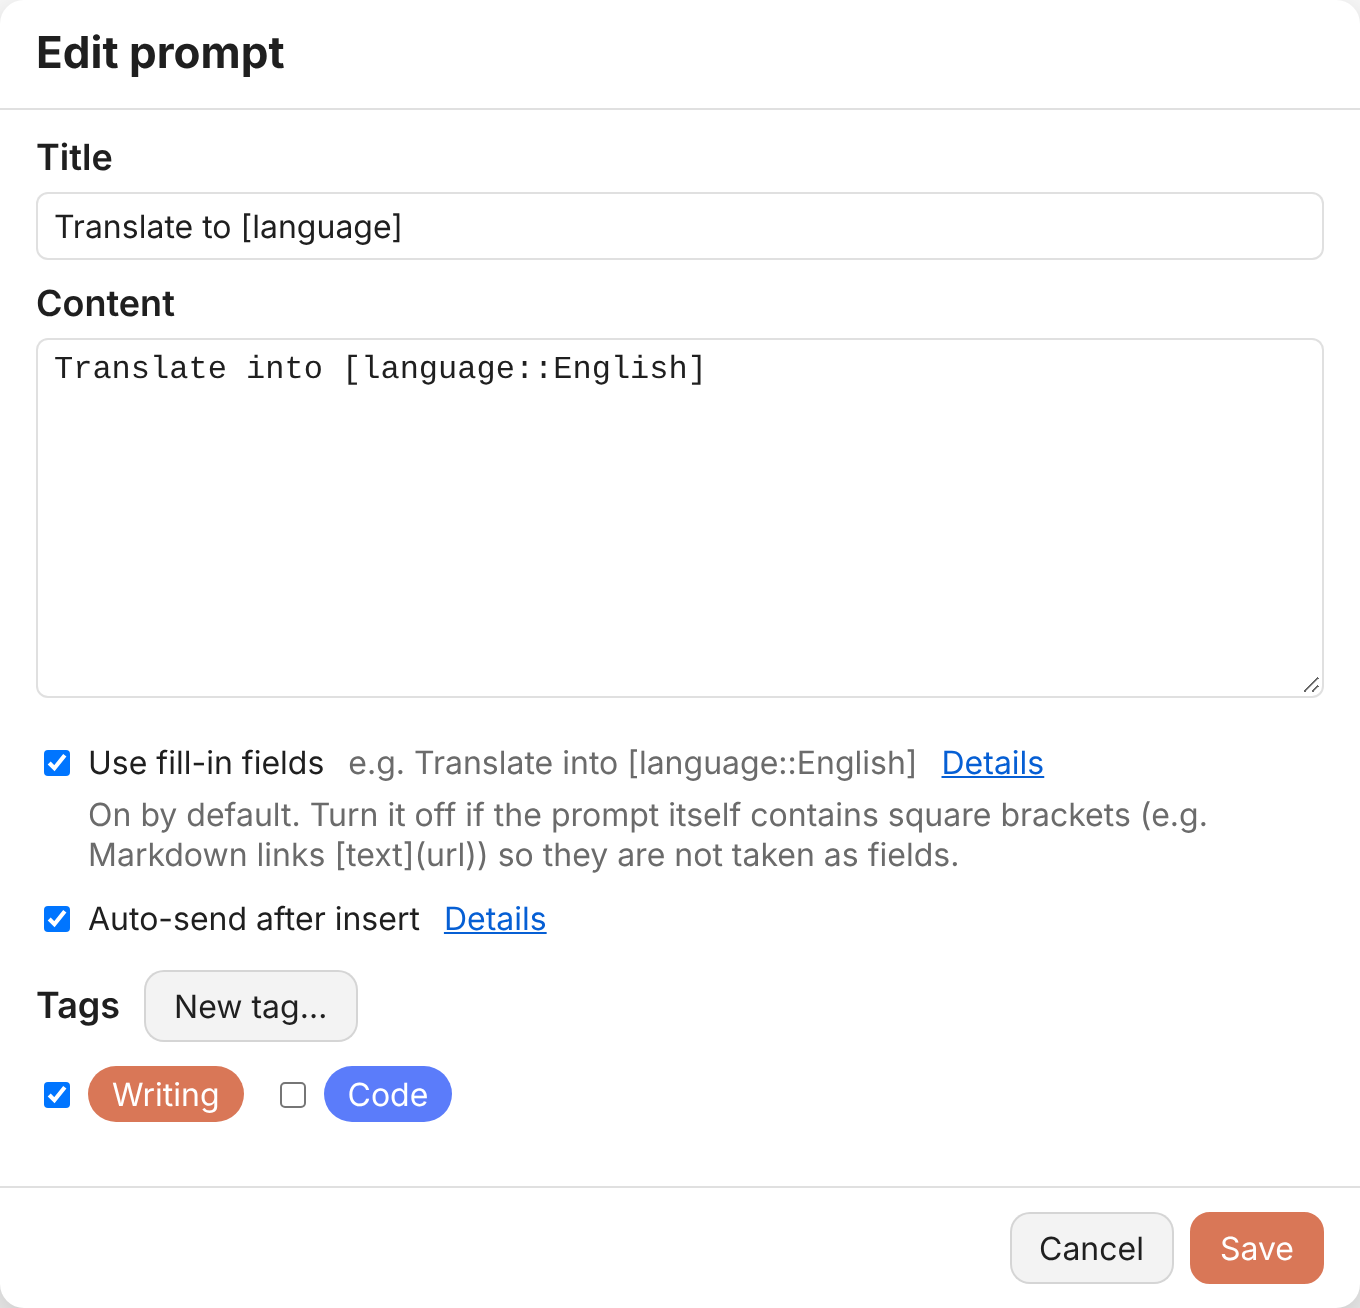
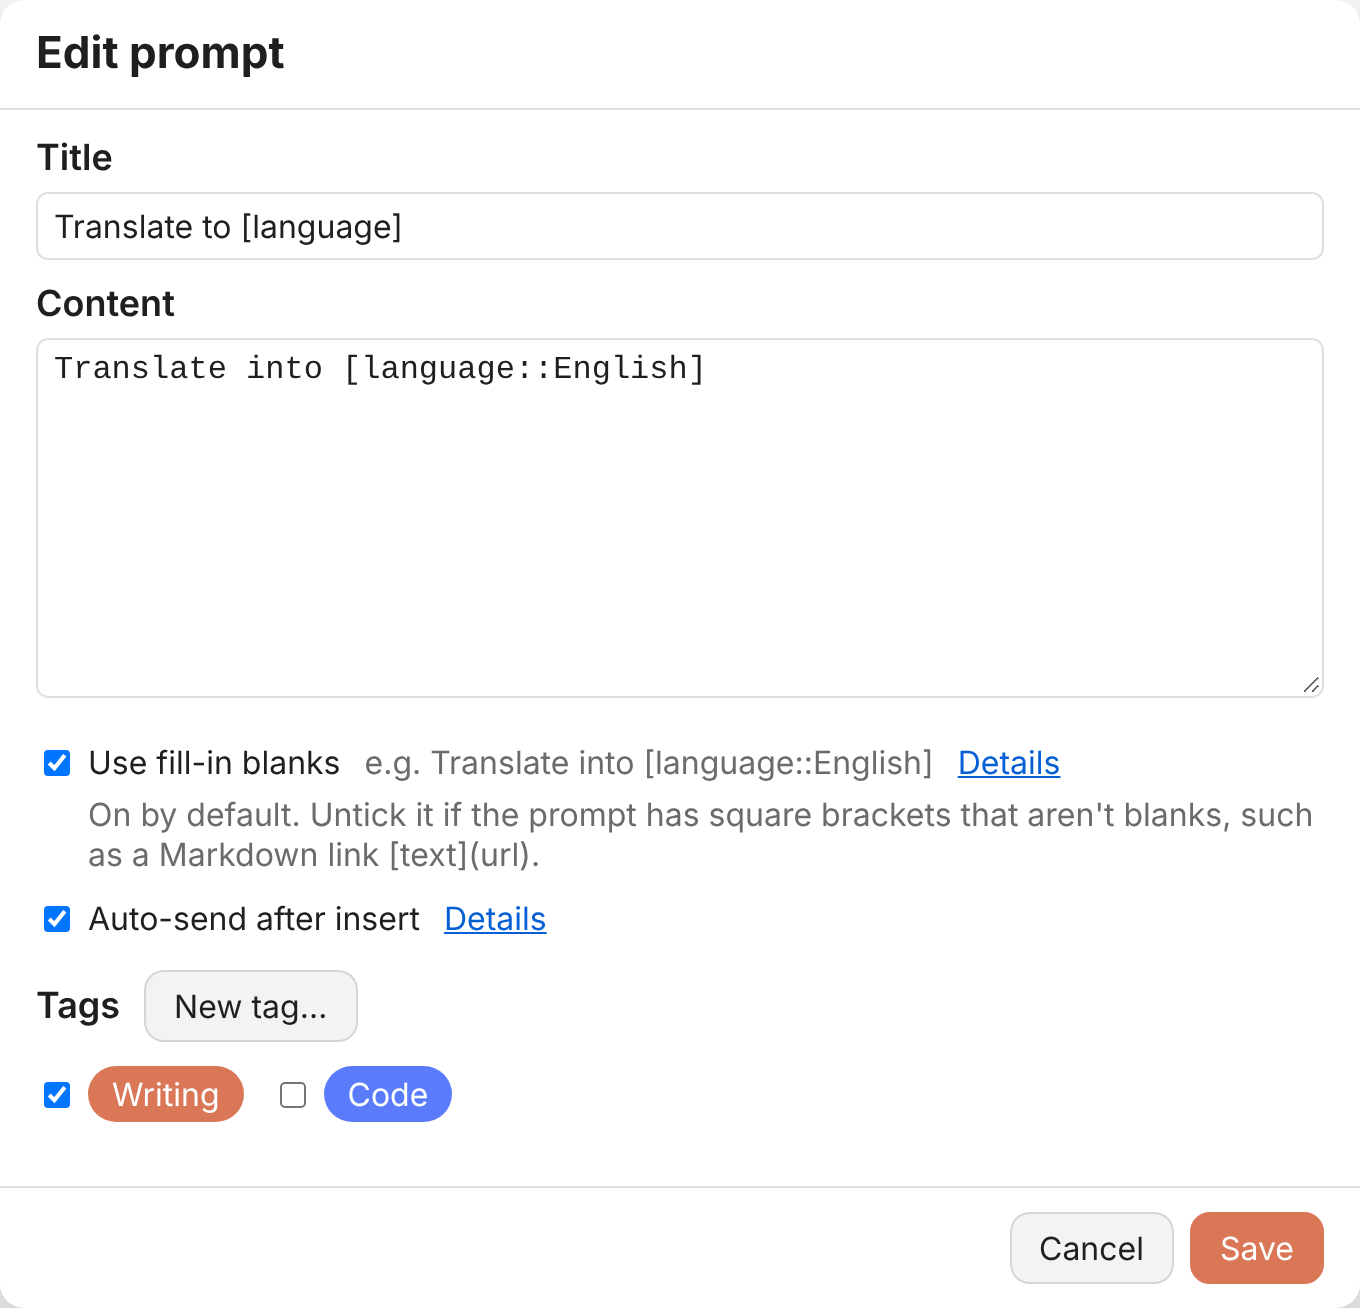
v1.2.2：介面中英文字串改成口語、與 README 用詞統一（英文 blank、中文空格）
Claude-Session: https://claude.ai/code/session_01EjuJ7uu9zEeY1qC176YcVq

Changed region(s): [[0.0618, 0.5505, 0.9574, 0.6728]]

diff --git a/prompt_popout.user.js b/prompt_popout.user.js
@@ -1,7 +1,7 @@
 // ==UserScript==
 // @name               Prompt Popout
 // @namespace          https://github.com/bgtsai
-// @version            1.2.1
+// @version            1.2.2
 // @author             bgtsai
 // @description        Adds a handle to the left of AI chat inputs; hover it to pop out your saved prompts and click one to insert it.
 // @description:zh-TW  在 AI 聊天輸入框左側加一個把手，滑過即彈出已存的提示詞清單，點選即填入。
@@ -89,11 +89,11 @@
       manage: '管理提示詞',
       manageBtn: '管理…',
       noPrompts: '還沒有提示詞',
-      noMatch: '沒有符合標籤的提示詞',
+      noMatch: '沒有同時符合這些標籤的提示詞',
       fillBadge: '填空',
       autoSendTitle: '填入後自動送出',
-      inputNotFound: '找不到輸入框',
-      fillTitle: '填入欄位',
+      inputNotFound: '找不到聊天輸入框，請重新整理頁面再試一次',
+      fillTitle: '填空',
       cancel: '取消',
       fill: '填入',
       ok: '確定',
@@ -113,43 +113,43 @@
       fieldTitle: '標題',
       fieldText: '內容',
       fillHelp: '例如：翻成[語言::英文]',
-      fillNote: '預設開啟。提示詞本來就有中括號（例如 Markdown 連結 [文字](網址)）時請取消，避免被誤當成欄位。',
+      fillNote: '預設開啟。如果提示詞本身就有不是空格的中括號（像 Markdown 連結 [文字](網址)），請取消勾選。',
       helpLink: '詳細說明',
-      tagsIntro: '標籤用來分類提示詞，在彈出清單上方點選即可篩選。',
-      needTagFirst: '要先建立標籤，才能勾選。',
+      tagsIntro: '用標籤幫提示詞分類，之後在清單上方點標籤，就只顯示那一類。',
+      needTagFirst: '還沒有標籤，先按「新增標籤…」建一個。',
       newTagBtn: '新增標籤…',
       help: {
         fill: {
           title: '填空',
-          intro: '勾選「使用填空」後，內容裡的 [欄位] 會在填入前先問你要填什麼。',
-          syntax: [['[語言]', '欄位'], ['[語言::英文]', '有預設值（兩個冒號）'], ['[語言](要翻成哪種)', '旁邊顯示提示']],
+          intro: '勾了「使用填空」，內容裡每個 [空格] 都會在填入前先問你要填什麼。',
+          syntax: [['[語言]', '一格空格'], ['[語言::英文]', '先填好「英文」，可以改（兩個冒號）'], ['[語言](要翻成哪種)', '旁邊多一行提示']],
           example: { label: '範例', before: '把下面翻成[語言::英文]，語氣[語氣]。\n最後用[語言]寫一句摘要。', middle: '填入：語言＝日文、語氣＝正式', after: '把下面翻成日文，語氣正式。\n最後用日文寫一句摘要。' },
-          notes: ['同名欄位只問一次。', '沒勾「使用填空」時，中括號原樣送出。'],
+          notes: ['同一個名字出現好幾次，只問一次。', '沒勾「使用填空」，中括號會原封不動送出。'],
         },
         autoSend: {
           title: '填入後自動送出',
-          intro: '文字填進輸入框後，自動按下送出。清單裡有 ↵ 圖示的就是會自動送出的。',
+          intro: '填好之後直接幫你按送出。清單裡有 ↵ 的，就是會自動送出的。',
           example: { label: '範例', pairs: [['總結這段對話', '勾：點了直接送出'], ['檢查錯字：', '不勾：填入後還要接著貼上文字']] },
-          notes: ['送出鈕 4 秒內一直按不下去（例如還在上傳檔案）就不送，文字留在輸入框。'],
+          notes: ['如果送出鈕 4 秒內都按不下去（例如檔案還在上傳），就不送出，文字會留在輸入框。'],
         },
       },
       useFill: '使用填空',
       autoSend: '填入後自動送出',
       tagsLabel: '標籤',
-      emptyText: '內容不能是空的',
+      emptyText: '內容還沒填',
       untitled: '(無標題)',
       tagsTitle: '標籤管理',
       bgColor: '底色',
       fgColor: '字色',
       newTagPlaceholder: '新標籤名稱',
-      confirmDeleteTag: (n) => `確定刪除標籤「${n}」？提示詞本身不會被刪。`,
+      confirmDeleteTag: (n) => `確定刪除標籤「${n}」？用到它的提示詞不會被刪，只是少了這個標籤。`,
       noTags: '還沒有標籤',
-      emptyList: '還沒有提示詞，按「新增」建立。',
+      emptyList: '還沒有提示詞，按「新增」建第一個。',
       imported: (n) => `已匯入 ${n} 筆提示詞`,
       importFailed: (r) => `匯入失敗：${r}`,
-      errNotJson: '不是有效的 JSON',
-      errFormat: '格式不符（format 欄位不是 prompt-popout）',
-      errStructure: '缺少 tags 或 prompts 陣列',
+      errNotJson: '檔案讀不懂（不是 JSON 格式）',
+      errFormat: '這不是 Prompt Popout 匯出的檔案',
+      errStructure: '檔案內容不完整',
       title: '提示詞',
     },
     en: {
@@ -157,11 +157,11 @@
       manage: 'Manage prompts',
       manageBtn: 'Manage…',
       noPrompts: 'No prompts yet',
-      noMatch: 'No prompts match the selected tags',
+      noMatch: 'No prompts have all of these tags',
       fillBadge: 'Fill',
       autoSendTitle: 'Auto-send after insert',
-      inputNotFound: 'Input box not found',
-      fillTitle: 'Fill in fields',
+      inputNotFound: "Couldn't find the chat box. Try reloading the page.",
+      fillTitle: 'Fill in the blanks',
       cancel: 'Cancel',
       fill: 'Fill',
       ok: 'OK',
@@ -181,43 +181,43 @@
       fieldTitle: 'Title',
       fieldText: 'Content',
       fillHelp: 'e.g. Translate into [language::English]',
-      fillNote: 'On by default. Turn it off if the prompt itself contains square brackets (e.g. Markdown links [text](url)) so they are not taken as fields.',
+      fillNote: "On by default. Untick it if the prompt has square brackets that aren't blanks, such as a Markdown link [text](url).",
       helpLink: 'Details',
-      tagsIntro: 'Tags group your prompts; click them at the top of the pop-out list to filter.',
-      needTagFirst: 'Create a tag first, then you can tick it here.',
+      tagsIntro: 'Use tags to sort your prompts. Click a tag at the top of the list to show just those.',
+      needTagFirst: 'No tags yet. Click "New tag…" to create one.',
       newTagBtn: 'New tag…',
       help: {
         fill: {
-          title: 'Fill-in fields',
-          intro: 'With "Use fill-in fields" ticked, every [field] in the content is asked for before the prompt is inserted.',
-          syntax: [['[language]', 'a field'], ['[language::English]', 'with a default (two colons)'], ['[language](which one)', 'with a hint next to it']],
+          title: 'Fill-in blanks',
+          intro: 'With "Use fill-in blanks" ticked, you\'re asked what to put in each [blank] before the prompt goes in.',
+          syntax: [['[language]', 'a blank'], ['[language::English]', 'starts out filled with English; you can change it (two colons)'], ['[language](which one)', 'shows a hint beside it']],
           example: { label: 'Example', before: 'Translate this into [language::English], [tone] tone.\nEnd with a one-line summary in [language].', middle: 'Fill in: language = Japanese, tone = formal', after: 'Translate this into Japanese, formal tone.\nEnd with a one-line summary in Japanese.' },
-          notes: ['A field used twice is asked only once.', 'Without "Use fill-in fields", brackets are sent as they are.'],
+          notes: ['If the same name appears more than once, you\'re only asked once.', 'Without "Use fill-in blanks", square brackets are sent exactly as written.'],
         },
         autoSend: {
           title: 'Auto-send after insert',
-          intro: 'Presses send for you once the text is in. Prompts marked ↵ in the list do this.',
+          intro: 'Hits send for you as soon as the text is in. Prompts marked ↵ in the list do this.',
           example: { label: 'Example', pairs: [['Summarise this conversation', 'Ticked: sent straight away'], ['Fix the typos in:', 'Not ticked: you still paste the text after it']] },
-          notes: ['If the send button stays disabled for 4 seconds (e.g. a file is still uploading), nothing is sent and the text stays in the box.'],
+          notes: ["If the send button can't be pressed within 4 seconds (say, a file is still uploading), nothing is sent and the text stays in the box."],
         },
       },
-      useFill: 'Use fill-in fields',
+      useFill: 'Use fill-in blanks',
       autoSend: 'Auto-send after insert',
       tagsLabel: 'Tags',
-      emptyText: 'Content cannot be empty',
+      emptyText: 'The content is empty',
       untitled: '(Untitled)',
       tagsTitle: 'Tags',
       bgColor: 'Background',
       fgColor: 'Text',
       newTagPlaceholder: 'New tag name',
-      confirmDeleteTag: (n) => `Delete tag "${n}"? Prompts themselves will not be deleted.`,
+      confirmDeleteTag: (n) => `Delete the tag "${n}"? Prompts that use it are kept; they just lose this tag.`,
       noTags: 'No tags yet',
-      emptyList: 'No prompts yet. Click "Add" to create one.',
+      emptyList: 'No prompts yet. Click "Add" to create your first one.',
       imported: (n) => `Imported ${n} prompt(s)`,
       importFailed: (r) => `Import failed: ${r}`,
-      errNotJson: 'Not valid JSON',
-      errFormat: 'Wrong format (format field is not prompt-popout)',
-      errStructure: 'Missing tags or prompts array',
+      errNotJson: "Can't read the file (it isn't JSON)",
+      errFormat: "This isn't a Prompt Popout export",
+      errStructure: 'The file is incomplete',
       title: 'Prompts',
     },
   };

diff --git a/tests/regress.js b/tests/regress.js
@@ -168,7 +168,7 @@ async function runSite(engineName, browser, site) {
     __menu.find(([n]) => /管理|Manage/.test(n))[1](); await wait(80);
     btn(/^(新增|Add)$/).click(); await wait(80);
     const ed = [...document.querySelectorAll('#pp-root .pp-dialog')].pop();
-    const hint = /要先建立標籤/.test(ed.innerText);
+    const hint = /還沒有標籤/.test(ed.innerText);
     ed.querySelector('input[type=text]').value = 'keep me';
     btn(/^新增標籤…$/).click(); await wait(80);
     const tm = [...document.querySelectorAll('#pp-root .pp-dialog')].pop();
@@ -260,7 +260,7 @@ async function runSite(engineName, browser, site) {
   await page.mouse.move(hx, hy); await sleep(450);
   await page.evaluate(() => { const it = [...document.querySelectorAll('[class*=pp-] *')].find((e) => e.children.length <= 3 && /^Fill me/.test(e.innerText.trim()) && e.getBoundingClientRect().height > 20); it && it.click(); });
   await sleep(300);
-  const dlg = await page.evaluate(() => { const ta = [...document.querySelectorAll('textarea')]; return { n: ta.length, vals: ta.map((t) => t.value), text: document.body.innerText.includes('填入欄位') }; });
+  const dlg = await page.evaluate(() => { const ta = [...document.querySelectorAll('textarea')]; return { n: ta.length, vals: ta.map((t) => t.value), text: document.body.innerText.includes('填空') }; });
   check(`${tag} 填空對話框：同名只問一次 → 2 欄`, dlg.n === 2 && dlg.text, dlg);
   check(`${tag} 預設值預填`, dlg.vals[0] === 'Bob', dlg.vals);
   await page.evaluate(() => { const ta = [...document.querySelectorAll('textarea')]; ta[1].value = 'AI'; ta[1].dispatchEvent(new Event('input', { bubbles: true })); });

diff --git a/README.md b/README.md
@@ -34,7 +34,7 @@ Tampermonkey will keep it up to date from then on.
 
 ### Writing fill-in blanks
 
-The fill-in window only appears for prompts with **Use fill-in fields** ticked.
+The fill-in window only appears for prompts with **Use fill-in blanks** ticked.
 
 | Write | What you get |
 |---|---|
@@ -47,7 +47,7 @@ If the same name appears more than once, you're asked once and every copy gets t
 
 For example, with `Translate into [language::English], [tone] tone.` you're asked for *language* (already filled with English) and *tone*.
 
-If a prompt has square brackets that aren't meant to be blanks, such as a Markdown link `[text](url)`, just untick **Use fill-in fields** for that prompt.
+If a prompt has square brackets that aren't meant to be blanks, such as a Markdown link `[text](url)`, just untick **Use fill-in blanks** for that prompt.
 
 ## Bringing prompts over from another tool
 

diff --git a/docs/SPEC.zh-TW.md b/docs/SPEC.zh-TW.md
@@ -147,7 +147,7 @@
 
 ### 7.2 填空對話框
 
-- 標題「填入欄位」。每個欄位一個多行輸入框（高約 60px），上方標示欄位名稱與說明。預設值預先填入。
+- 標題「填空」（英文 Fill in the blanks；v1.2.2 起介面英文一律稱 blank、中文稱空格）。每個欄位一個多行輸入框（高約 60px），上方標示欄位名稱與說明。預設值預先填入。
 - 按鈕：取消、填入。快捷鍵：Esc＝取消；Ctrl／Cmd＋Enter＝填入。開啟後焦點在第一個欄位。
 
 ## 8. 管理視窗
